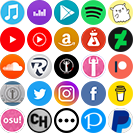
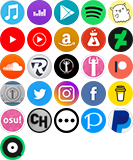
joox

diff --git a/index.html b/index.html
@@ -122,6 +122,9 @@
           <a class="platform-url" href="https://soundcloud.com/wardimension"  target="_blank">
             <i class="platform-icon i-soundcloud"></i>SoundCloud
           </a>
+          <a class="platform-url" href="https://www.joox.com/id/artist/3N3EmLVl5_hLd4t9Q93a1Q=="  target="_blank">
+            <i class="platform-icon i-joox"></i>JOOX
+          </a>
           <h3>Rhythm Games</h3>
           <a class="platform-url" href="https://wardimension.github.io/blog?b=chart&search=['Artist: WarDimension', 'Game: Rocksmith 2014']"  target="_blank">
             <i class="platform-icon i-rocksmith"></i>Rocksmith

diff --git a/css/theme.css b/css/theme.css
@@ -328,6 +328,9 @@ h3{
 .i-paypal{
   background-position: -108px -108px;
 }
+.i-joox{
+  background-position: 0 -135px;
+}
 .platform-url{
   text-decoration:none;
   color: #000;
